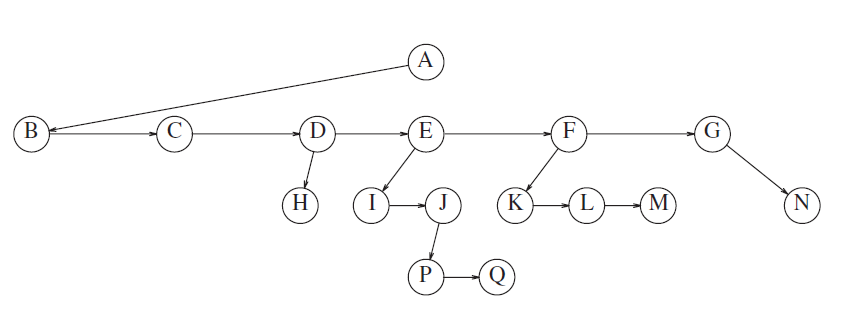
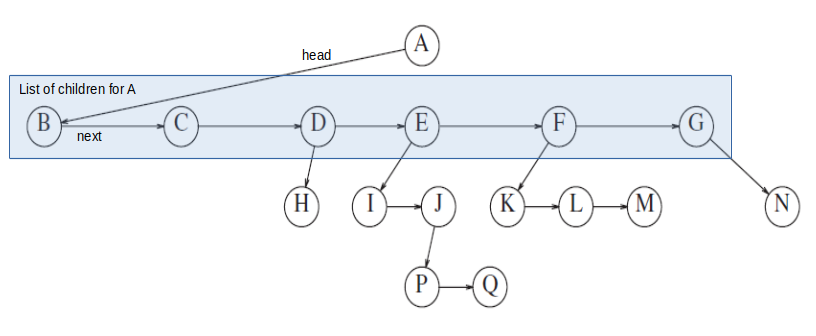
improved figure.

Changed region(s): [[0.0, 0.0579, 0.9191, 0.955], [0.8885, 0.5209, 0.9804, 0.7235]]

diff --git a/Chapter4_Trees/README.md b/Chapter4_Trees/README.md
@@ -55,7 +55,7 @@ public:
 ![m-ary tree](m-ary_tree.png)
 
 
-Note: Some implementations only implement the node class and represent the tree as a reference or pointer to the root node.
+Note: Some implementations only use the node class and represent the tree as a reference or pointer to the root node.
 
 
 ## Binary Trees
